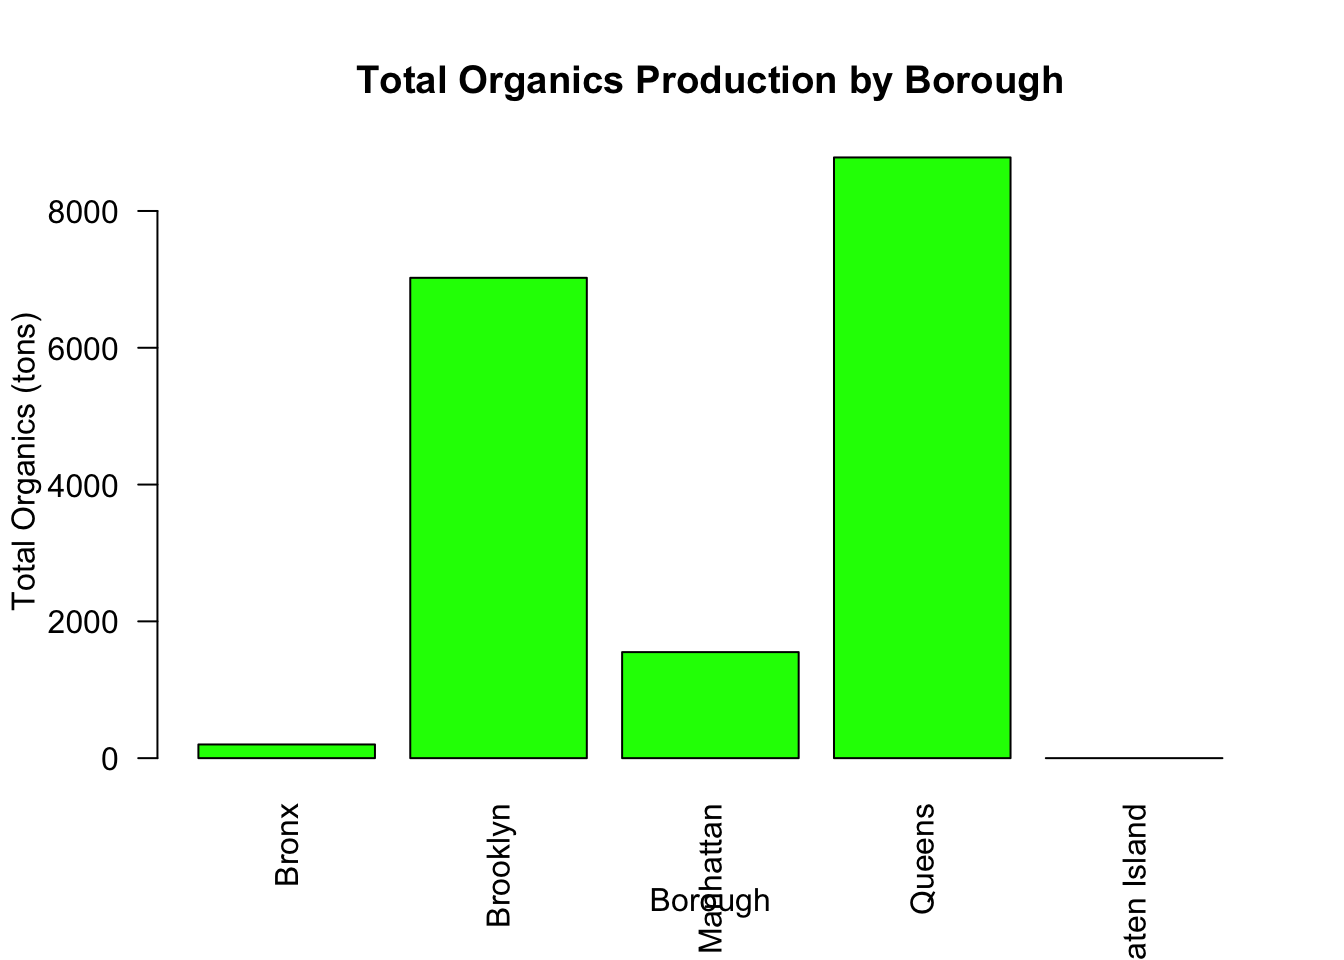
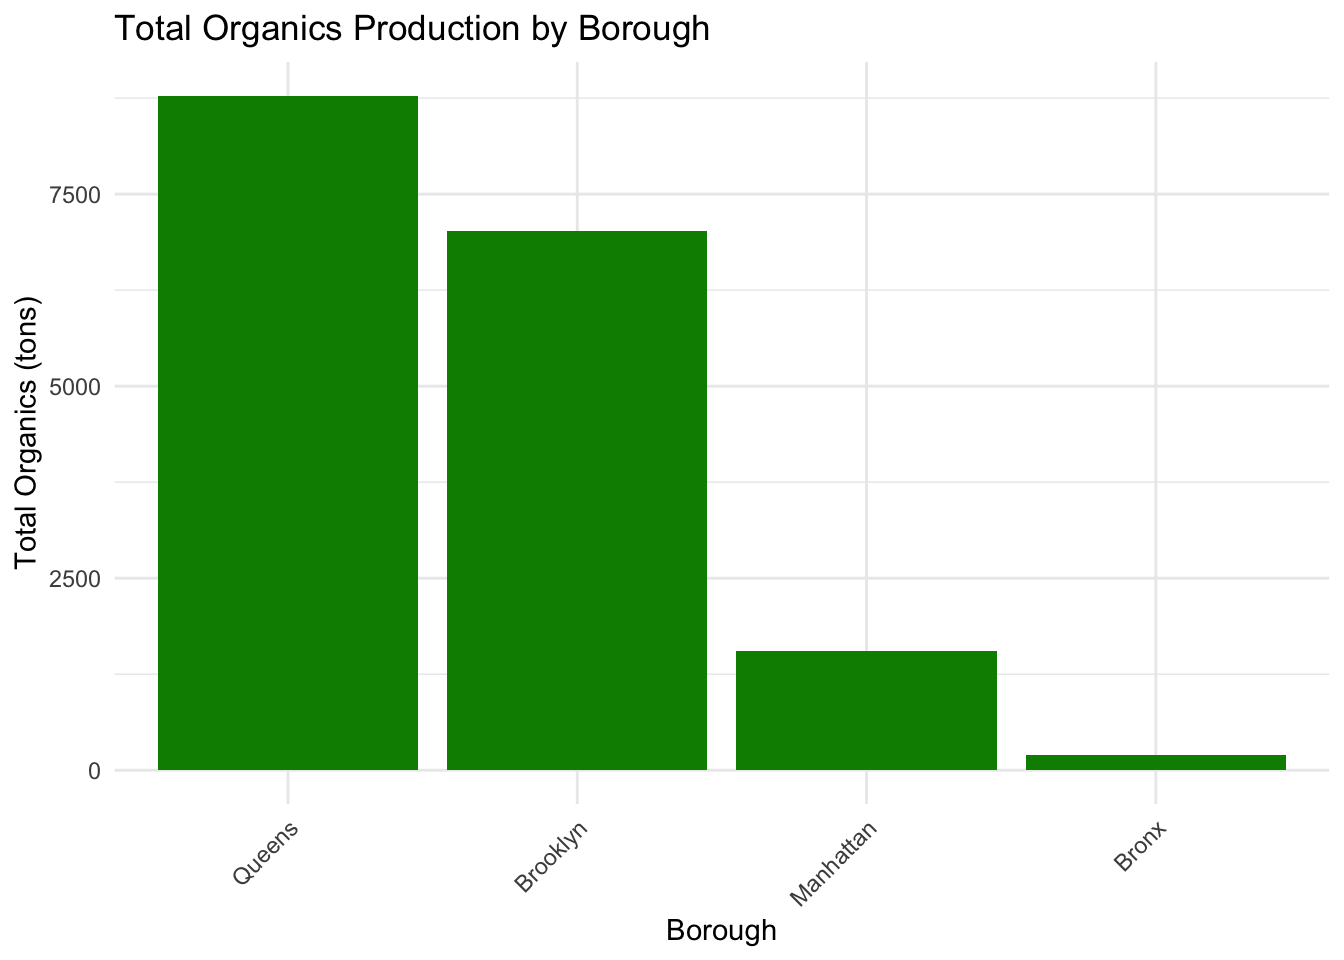
fixed formatting for plots

diff --git a/docs/eda.html b/docs/eda.html
@@ -348,10 +348,8 @@ longitude.</li>
 <p>Variable <code>created_date</code> was separated to create three new
 variables to allow for analysis: <code>month</code>, <code>day</code>,
 <code>year</code>.</p>
-<p>Borough_id was serves as a numerical identifier for each borough,
-which can be useful for data management, especially when dealing with
-categorical data (like the boroughs) in statistical analyses or
-visualizations.</p>
+<p><code>Borough_id</code> : still need to describe why it was
+created</p>
 <pre class="r"><code>waste_tonnage = read_csv(&quot;data/DSNY_Monthly_Tonnage_Data_20231202.csv&quot;) %&gt;%
   clean_names(case = &quot;snake&quot;) %&gt;%
   mutate(date_split = strsplit(month, &quot;/&quot;)) %&gt;%
@@ -369,40 +367,18 @@ waste_tonnage = waste_tonnage %&gt;%
     total_refuse = sum(refusetonscollected, na.rm = TRUE)
     )</code></pre>
 </div>
-<div id="waste-tonnage-data-cleaning" class="section level2">
-<h2>Waste Tonnage Data Cleaning</h2>
-<p>To tidy up the waste tonnage data, we started by importing the
-Monthly Tonnage Data from the NYC Department of Sanitation. To make the
-data more manageable and consistent, we first applied the clean_names
-function.</p>
-<p>Next, we focused on the date information. The month column initially
-contained combined year and month data, so we split it into two separate
-variables. We achieved this by using strsplit to separate the year and
-month, and then applied the sapply function to extract and convert these
-into individual year and month integer columns.</p>
-<p>We decided to filter the dataset to include only the years 2022 and
-2023. This filtering aligns our analysis with a more recent and relevant
-timeframe and allows for a smaller subset of the initial dataset.</p>
-<p>We then consolidated the data on organic waste, which was initially
-spread across different columns (resorganicstons and schoolorganictons).
-These represent residential organic tons and school organic tons. We
-summed these columns to create a new <code>total_organics</code> column,
-giving us a the total organic waste.</p>
-<p>For our last step, we grouped the data by borough, month, year, and
-borough_id. This grouping allowed us to summarize the total organic
-waste and total refuse collected in each borough for each month and
-year, ensuring our analysis would capture the geographical and temporal
-variations in waste tonnage. We used summarise with na.rm = TRUE to
-handle any missing values effectively, ensuring that they did not skew
-our results.</p>
+<div id="waste-tonnage-data-cleaning" class="section level3">
+<h3>Waste Tonnage Data Cleaning</h3>
+<p>add desc here</p>
 <p>Merging Datasets: We used the left_join function from the dplyr
-package to we merge the rat_sightings data with the waste_tonnage data.
-We chose to merge based on borough_id, month, year, and borough. This
+package to merge the rat_sightings data with the waste_tonnage data. We
+chose to merge based on borough_id, month, year, and borough. This
 approach ensures that each rat sighting record is aligned with the
 corresponding waste tonnage data based on both geographical (borough)
 and temporal (month and year) factors. After merging, we applied a
-filtering step to remove rows with missing values (NA) in the
-total_organics and total_refuse columns.</p>
+filtering step to remove rows with missing values in the total_organics
+and total_refuse columns.</p>
+</div>
 <div id="figure-1-total-trash-by-borough-for-2022-and-2023"
 class="section level3">
 <h3>Figure 1: Total Trash by Borough for 2022 and 2023</h3>
@@ -416,11 +392,11 @@ ggplot(waste_tonnage_by_borough, aes(x = reorder(borough, -total_tonnage), y = t
   theme_minimal() +
   theme(axis.text.x = element_text(angle = 45, hjust = 1))</code></pre>
 <p><img src="eda_files/figure-html/figure%201-1.png" width="672" /></p>
-<p>Figure 1, titled “Trash Tonnage by Borough, 2022 - 2023,” is a bar
-chart visualizing the total amount of trash (comprising both organics
-and refuse) collected in each borough of New York City over the years
-2022 and 2023. From the chart, it is evident that <em>Brooklyn</em> has
-the highest total trash tonnage, shown by the tallest bar. The other
+<p>Figure 1, “Trash Tonnage by Borough, 2022 - 2023,” is a bar chart
+visualizing the total amount of trash (comprising both organics and
+refuse) collected in each borough of New York City over the years 2022
+and 2023. From the chart, it is evident that <em>Brooklyn</em> has the
+highest total trash tonnage, shown by the tallest bar. The other
 boroughs—Queens, Manhattan, and the Bronx—are represented with
 progressively smaller bars, indicating a decrease in the total trash
 tonnage respectively. Staten Island is not included in the chart, which
@@ -433,33 +409,53 @@ scale of waste collected in across the boroughs.</p>
 <div id="figure-2-total-refuse-and-total-organics"
 class="section level3">
 <h3>Figure 2: Total Refuse and Total organics</h3>
-<pre class="r"><code>waste_by_borough_refuse &lt;- aggregate(total_refuse ~ borough, data=waste_tonnage, sum)
+<pre class="r"><code>waste_by_borough_refuse &lt;- waste_tonnage %&gt;%
+  filter(borough != &quot;Staten Island&quot;) %&gt;%
+  aggregate(total_refuse ~ borough, data=., sum)
 
-# barplot for total refuse
-barplot(waste_by_borough_refuse$total_refuse,
-        main=&quot;Total Refuse Production by Borough&quot;,
-        xlab=&quot;Borough&quot;,
-        ylab=&quot;Total Refuse (tons)&quot;,
-        col=&quot;blue&quot;,
-        names.arg=waste_by_borough_refuse$borough,
-        las=2)</code></pre>
+plot_refuse = ggplot(waste_by_borough_refuse, aes(x = reorder(borough, -total_refuse), y = total_refuse)) +
+  geom_bar(stat = &quot;identity&quot;, fill = &quot;blue4&quot;) +
+  labs(x = &quot;Borough&quot;, y = &quot;Total Refuse (tons)&quot;, 
+       title = &quot;Total Refuse Production by Borough&quot;) +
+  theme_minimal() +
+  theme(axis.text.x = element_text(angle = 45, hjust = 1))
+
+waste_by_borough_organics &lt;- waste_tonnage %&gt;%
+  filter(borough != &quot;Staten Island&quot;) %&gt;%
+  aggregate(total_organics ~ borough, data=., sum)
+
+plot_organics = ggplot(waste_by_borough_organics, aes(x = reorder(borough, -total_organics), y = total_organics)) +
+  geom_bar(stat = &quot;identity&quot;, fill = &quot;green4&quot;) +
+  labs(x = &quot;Borough&quot;, y = &quot;Total Organics (tons)&quot;, 
+       title = &quot;Total Organics Production by Borough&quot;) +
+  theme_minimal() +
+  theme(axis.text.x = element_text(angle = 45, hjust = 1))
+
+plot_refuse </code></pre>
 <p><img src="eda_files/figure-html/figure%202-1.png" width="672" /></p>
-<pre class="r"><code>waste_by_borough_organics &lt;- aggregate(total_organics ~ borough, data=waste_tonnage, sum)
-
-# barplot for total organics
-barplot(waste_by_borough_organics$total_organics,
-        main=&quot;Total Organics Production by Borough&quot;,
-        xlab=&quot;Borough&quot;,
-        ylab=&quot;Total Organics (tons)&quot;,
-        col=&quot;green&quot;,
-        names.arg=waste_by_borough_organics$borough,
-        las=2)</code></pre>
+<pre class="r"><code>plot_organics </code></pre>
 <p><img src="eda_files/figure-html/figure%202-2.png" width="672" /></p>
-<ul>
-<li>Explain this figure, including why you had to separate (b/c they are
-on a different scale)</li>
-</ul>
-</div>
+<p>Refuse and Organic waste was separate on to two plots since they have
+different scales for trash collection.</p>
+<p>“Total Refuse Production by Borough (Excluding Staten Island),”
+indicates that Brooklyn leads in refuse production, with Queens closely
+following, indicative of their larger populations and potentially more
+commercial activity. The Bronx and Manhattan, while still contributing
+significantly, show lower quantities of refuse. Notably, the volume of
+refuse is substantially higher than organics, suggesting that
+non-recyclable and non-compostable waste constitutes a larger proportion
+of the city’s waste output.</p>
+<p>“Total Organics Production by Borough (Excluding Staten Island),”
+portrays a similar bar chart but focuses on organic waste. The trends
+here are slightly different; Queens surpasses Brooklyn in organic waste,
+which might reflect more effective organic waste collection policies or
+higher community engagement in composting programs. Manhattan and the
+Bronx have much lower figures for organic waste, which might be due to
+differences in residential patterns, availability of green spaces, or
+varying levels of participation in organic waste recycling programs.</p>
+<p>Comparing the two figures, it’s clear that the refuse and organics
+are managed differently across boroughs, with refuse being the dominant
+waste type.</p>
 </div>
 <div id="figure-3-trash-by-borough-per-month" class="section level2">
 <h2>Figure 3: Trash by Borough per month</h2>
@@ -471,15 +467,21 @@ total_tonnage_by_borough_year_month$year_month &lt;- as.Date(paste(total_tonnage
 
 ggplot(total_tonnage_by_borough_year_month, aes(x = year_month, y = total_tonnage, group = borough, color = borough)) +
   geom_line() +
-  labs(x = &quot;Year-Month&quot;, y = &quot;Amount of Trash (in tons)&quot;, title = &quot;Trash Tonnage by Month and Borough&quot;) +
+  labs(x = &quot;Year-Month&quot;, y = &quot;Amount of Trash (in tons)&quot;, title = &quot;Trash Tonnage by Month and Borough&quot;, color = &quot;Borough&quot;) +
   scale_x_date(date_labels = &quot;%Y-%m&quot;, date_breaks = &quot;1 month&quot;) +
   scale_y_continuous(labels = scales::number_format(scale = 1e-6)) +
   theme_minimal() +
   theme(axis.text.x = element_text(angle = 45, hjust = 1))</code></pre>
 <p><img src="eda_files/figure-html/figure%203-1.png" width="672" /></p>
-<ul>
-<li>Explain this figure,</li>
-</ul>
+<p>Figure 3, “Trash Tonnage by Month and Borough” is a multi-line chart
+that tracks the volume of trash, both organics and refuse, collected
+over time across different boroughs of New York City, from early 2022 to
+the end of 2023. In this visualization, Brooklyn is depicted with a
+prominent peak, suggesting a significant increase in trash tonnage in
+summer months, potentially indicative of seasonal variations or specific
+events impacting waste production. The other boroughs also show
+variability, with Queens and Manhattan following similar trajectories
+and the Bronx displaying the least amount of trash tonnage overall.</p>
 </div>
 
 
